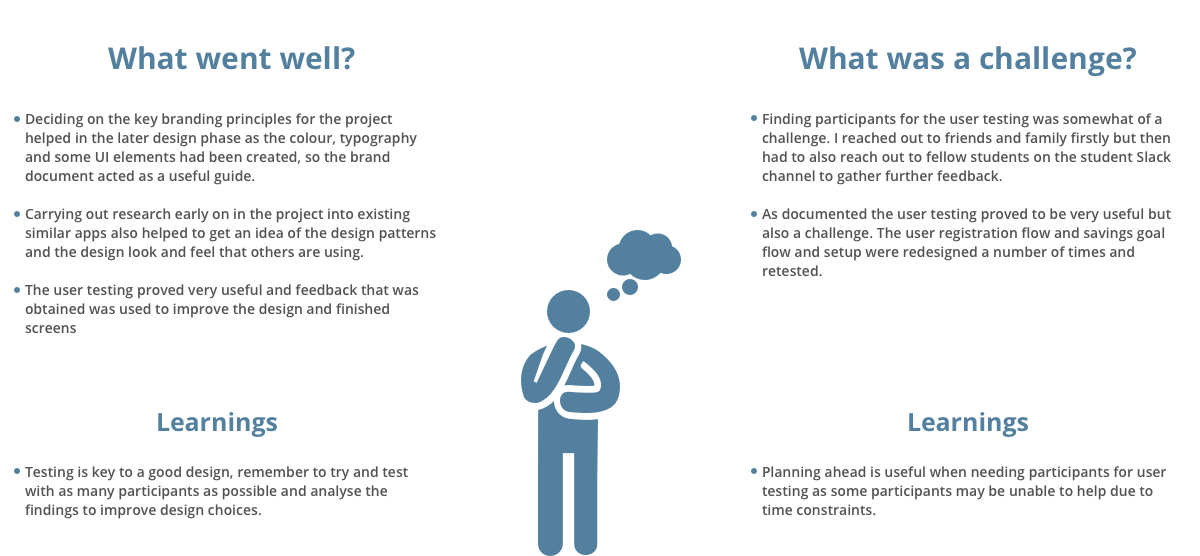
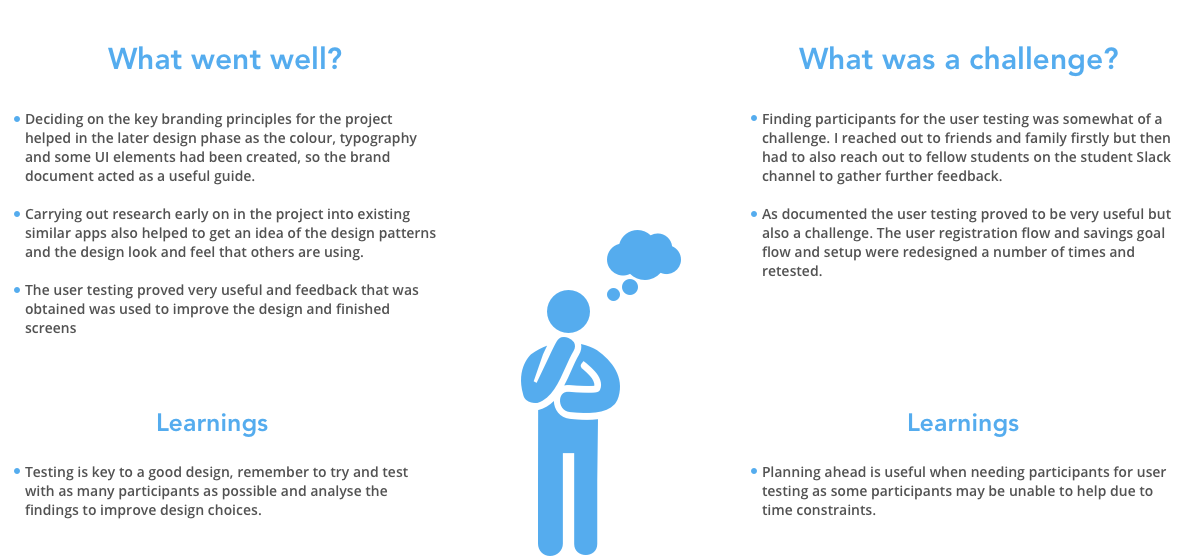
updating style

diff --git a/assets/css/style.css b/assets/css/style.css
@@ -65,13 +65,13 @@ td, th {
 }
 
 th:nth-child(even) {
-   background-color: #53809E;
+   background-color: #55ACEE;
      border: 1px solid  ;
     color:white;
 }
 
 th:nth-child(odd) {
-  background-color: #53809E;
+  background-color: #55ACEE;
     border: 1px solid ; 
     color:white;
 }
@@ -875,7 +875,7 @@ section {
 
  .fa-download:before {
      /*color:#f05f40;*/
-     color:#53809E;
+     color:#55ACEE;
  }
  
  
@@ -1013,16 +1013,16 @@ color: #55ACEE;
 .btn-blue:active,
 .btn-blue:focus,
 .btn-blue:active:focus{
-    color:  #53809E;
+    color:  #55ACEE;
     background-color: #fff;
-   border-color:  #53809E;
+   border-color:  #55ACEE;
   border-radius: 10px;
 }
 
 .btn-white{
-    color:#53809E;
+    color:#55ACEE;
     background-color: #fff;
-   border-color:  #53809E;
+   border-color:  #55ACEE;
 }
 
 
@@ -1031,8 +1031,8 @@ color: #55ACEE;
 .btn-white:focus,
 .btn-white:active:focus {
     background-color: #fff;
-    border-color: #53809E;
-    color: #53809E;
+    border-color: #55ACEE;
+    color: #55ACEE;
 }
 
 
@@ -1041,8 +1041,8 @@ color: #55ACEE;
 .btn-white:hover
  {
     background-color: #FAFAFA;
-    border-color: #53809E;
-    color: #53809E;
+    border-color: #55ACEE;
+    color: #55ACEE;
 }
 
 
@@ -1102,7 +1102,7 @@ color: #55ACEE;
 }
 
 .blue-brand {
-    color:#55ACEE;;
+    color:#55ACEE;
     
 }
 
@@ -1206,7 +1206,7 @@ footer .cv-pdf i:hover {
 
 .social-links li a i:hover {
     /*background: #e84610;*/
-    background:#53809E;
+    background:#55ACEE;
 }
 
 #footer-details {
@@ -1460,7 +1460,7 @@ label {
 
 .light-grey-bg {
     /*background-color: #F7F7F7;*/
-    background-color:#53809E;
+    background-color:#55ACEE;
   
 }
 
@@ -1718,7 +1718,7 @@ color:#55ACEE;
 
 .orange-hex {
 /*color: #FDA02F;*/
-color:#53809E;
+color:#55ACEE;
 }
 
 .grey-link {
@@ -1744,19 +1744,19 @@ color:#53809E;
 
 .blue-hex {
 /*color:#0091FF;*/
-color:#53809E;
+color:#55ACEE;
 }
 
 .brown-hex {
 /*color: #D2925B;*/
-color:#53809E;
+color:#55ACEE;
 }
 
 
 
 .light-brown-hex {
   /*  color:#4e3317;*/
-color:#53809E;
+color:#55ACEE;
 }
 
 
@@ -1806,7 +1806,7 @@ color:#53809E;
    padding: 5px 10px;
    position: fixed;
   /* background-color:  #484848;*/
-     background-color:#53809E;
+     background-color:#55ACEE;
    right: 30px;
    bottom: 30px;
    z-index: 2;
@@ -1843,7 +1843,7 @@ color:#53809E;
 }
 
 .border-brand {
-   border:1px solid #53809E;
+   border:1px solid #55ACEE;
    padding:0px;
    margin-bottom:50px;
 }
@@ -1859,12 +1859,12 @@ color:#53809E;
 
 .carousel-control.right {
   background-image: linear-gradient(to right,rgba(0,0,0,0) 0,rgba(0,0,0,0) 100%);
-  color:#53809E;
+  color:#55ACEE;
 }
 
 .carousel-control.left {
   background-image: linear-gradient(to right,rgba(0,0,0,0) 0,rgba(0,0,0,0) 100%);
-  color:#53809E;
+  color:#55ACEE;
 }
 
 
